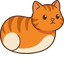
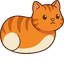
fix(garden): show all four of the cat's legs
The far-side legs sat 3 px behind the near ones and were hidden, so the
cat looked two-legged. They now stand between the near legs, shaded
darker, and the legs are 3 px longer below the belly. Shop thumbnail
rebuilt with the same offsets.

Claude-Session: https://claude.ai/code/session_01TsYP22HKPBfku97zNGe4YG

diff --git a/app/(main)/garden/_lib/garden-renderer.ts b/app/(main)/garden/_lib/garden-renderer.ts
@@ -57,9 +57,12 @@ const PIPO_PARTS = [
   "pipo-eyes-closed",
 ];
 const CAT_PARTS = ["cat-shadow", "cat-tail", "cat-leg-back", "cat-leg-front", "cat-body"];
-/** The cat's far-side legs reuse the leg images, shifted and shaded darker. */
-const FAR_LEG_TINT = 0xb9a48f;
-const FAR_LEG_OFFSET = { x: 3, y: -1 };
+/**
+ * The cat's far-side legs reuse the leg images, shaded darker and moved in between the near
+ * legs so all four read clearly from the side (garden-scene spec §3.6).
+ */
+const FAR_LEG_TINT = 0x9e9e9e;
+const FAR_LEG_OFFSET = { front: { x: -6, y: -2 }, back: { x: 7, y: -2 } } as const;
 /** Opacity of a tree while Pipo walks behind it. */
 const OCCLUDING_ALPHA = 0.45;
 
@@ -223,16 +226,16 @@ export async function createGardenRenderer(
   if (model.cat) {
     const root = new Container();
     const tail = part("cat-tail", "cat-body");
-    const farLeg = (id: string) => {
+    const farLeg = (id: string, offset: { x: number; y: number }) => {
       const leg = part(id, "cat-body");
-      leg.position.set(leg.x + FAR_LEG_OFFSET.x, leg.y + FAR_LEG_OFFSET.y);
+      leg.position.set(leg.x + offset.x, leg.y + offset.y);
       leg.tint = FAR_LEG_TINT;
       return leg;
     };
     const nearBack = part("cat-leg-back", "cat-body");
     const nearFront = part("cat-leg-front", "cat-body");
-    const farBack = farLeg("cat-leg-back");
-    const farFront = farLeg("cat-leg-front");
+    const farBack = farLeg("cat-leg-back", FAR_LEG_OFFSET.back);
+    const farFront = farLeg("cat-leg-front", FAR_LEG_OFFSET.front);
     // Order matters for the gait: near back, near front, far back, far front
     const legs = [nearBack, nearFront, farBack, farFront];
     root.addChild(
